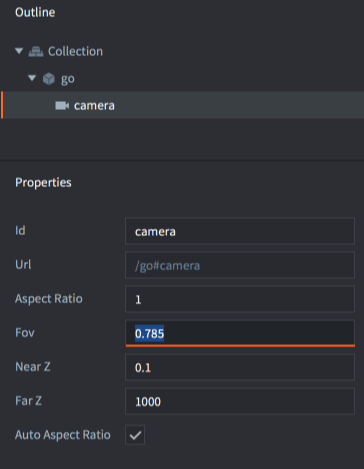
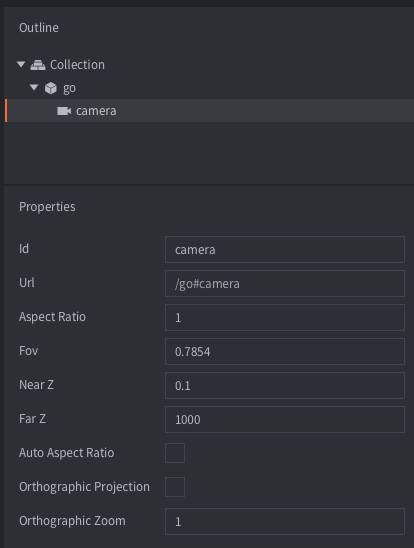
Updated camera and render documentation

diff --git a/docs/en/manuals/camera.md b/docs/en/manuals/camera.md
@@ -5,17 +5,28 @@ brief: This manual describes the functionality of the Defold camera component.
 
 # Cameras
 
-A camera in Defold is a component that changes the viewport and projection of the game world. The camera component defines a bare bones perspective or orthographic camera that provides a view and projection matrix to the render script. A perspective camera is typically used for 3D games while an orthographic camera is used for 2D games. If you need advanced features like chasing, zooming, shake etc you will need to implement it yourself (see section on [third-party camera solutions](https://www.defold.com/manuals/camera/#third-party-camera-solutions) below).
+A camera in Defold is a component that changes the viewport and projection of the game world. The camera component defines a bare bones perspective or orthographic camera that provides a view and projection matrix to the render script.
+
+A perspective camera is typically used for 3D games where view of the camera and the size and perspective of objects is based on a view frustum and the distance and view angle from the camera to the objects in the game.
+
+For 2D games, it is often desirable to render the scene with an orthographic projection. This means that the view of the camera is no longer dictated by a view frustum, but by a box. Orthographic projection is unrealistic in that it does not alter the size of objects based on their distance. An object 1000 units away will render at the same size as an object right in front of the camera.
+
+![projections](images/camera/projections.png)
+
+
+If you need advanced features like chasing or shake etc you will need to implement it yourself (see section on [third-party camera solutions](https://www.defold.com/manuals/camera/#third-party-camera-solutions) below).
+
+
 
 ## Creating a camera
 
 To create a camera, <kbd>right click</kbd> a game object and select <kbd>Add Component ▸ Camera</kbd>. You can alternatively create a component file in your project hierarchy and add the component file to the game object.
 
-![create camera component](images/camera/create.png){srcset="images/camera/create@2x.png 2x"}
+![create camera component](images/camera/create.png)
 
 The camera component has the following properties that defines the camera *frustum* (perspective camera only):
 
-![camera settings](images/camera/settings.png){srcset="images/camera/settings@2x.png 2x"}
+![camera settings](images/camera/settings.png)
 
 Id
 : The id of the component
@@ -35,15 +46,22 @@ Far Z
 Auto Aspect Ratio
 : (**Perspective camera only**) - Set this to let the camera automatically calculate the aspect ratio.
 
+Orthographic Projection
+: Set this to switch the camera to an orthographic projection (see below).
+
+Orthographic Zoom
+: (**Orthographic camera only**) - The zoom used for the orthographic projection (> 1 = zoom in, < 1 = zoom out).
+
+
 ## Using the camera
 
-To activate a camera and have it feed its view and projection matrices to the render script, you send the component an acquire_camera_focus message:
+To activate a camera and have it feed its view and projection matrices to the render script, you send the component an `acquire_camera_focus` message:
 
 ```lua
 msg.post("#camera", "acquire_camera_focus")
 ```
 
-Each frame, the camera component that currently has camera focus will send a `"set_view_projection"` message to the "@render" socket, i.e. it will arrive to your render script:
+Each frame, the camera component that currently has camera focus will send a `set_view_projection` message to the "@render" socket, i.e. it will arrive to your render script:
 
 ```lua
 -- builtins/render/default.render_script
@@ -57,6 +75,21 @@ end
 ```
 1. The message posted from the camera component includes a view matrix and a projection matrix.
 
+The camera component supplies the render script with either a perspective or orthographic projection matrix depending on the *Orthographic Projection* property of the camera.
+
+::: important
+For reasons of backwards compatibility the default render script ignores the projection provided by the camera and always uses an orthographic stretch projection.
+:::
+
+You can tell the render script to use the projection provided by the camera by sending a message to the render script:
+
+```lua
+msg.post("@render:", "use_camera_projection")
+```
+
+Learn more about the render script and the view and projection matrices in the [Render manual](/manuals/render/#default-view-projection).
+
+
 ### Panning the camera
 
 You pan/move the camera around the game world by moving the game object the camera component is attached to. The camera component will automatically send an updated view matrix based on the current x and y axis position of the camera.
@@ -65,10 +98,10 @@ You pan/move the camera around the game world by moving the game object the came
 
 You can zoom in and out when using a perspective camera by moving the game object the camera is attached to along the z-axis. The camera component will automatically send an updated view matrix based on the current z-position of the camera.
 
-You can only zoom in and out when using an orthographic camera if the projection type is set to `Fixed`, and in that case the zoom is changed by sending a message to the render script with the required zoom level:
+You can zoom in and out when using an orthographic camera by changing the *Orthographic Zoom* property of the camera:
 
-```Lua
-msg.post("@render:", "use_fixed_projection", { zoom = 2, near = -1, far = 1 })
+```lua
+go.set("#camera", "orthographic_zoom", 2)
 ```
 
 ### Following a game object
@@ -81,7 +114,7 @@ An alternative way is to update the position of the game object the camera compo
 
 ### Converting mouse to world coordinates
 
-When the camera has panned, zoomed or changed it's projection from the default orthographic Stretch projection the mouse coordinates provided in the on_input() lifecycle function will no longer match to the world coordinates of your game objects. You need to manually account for the change in view or projection. Converting from mouse/screen coordinates to world coordinates from the default render script is done like this:
+When the camera has panned, zoomed or changed it's projection from the default orthographic Stretch projection the mouse coordinates provided in the `on_input()` lifecycle function will no longer match to the world coordinates of your game objects. You need to manually account for the change in view or projection. Converting from mouse/screen coordinates to world coordinates from the default render script is done like this:
 
 ::: sidenote
 The [third-party camera solutions mentioned in this manual](/manuals/camera/#third-party-camera-solutions) provides functions for converting to and from screen coordinates.
@@ -102,37 +135,23 @@ local function screen_to_world(x, y, z)
 end
 ```
 
-## Projections
 
-The camera component supplies the render script with a perspective projection. This is well suited for 3D games. For 2D games, it is often desirable to render the scene with *orthographic projection*. This means that the view of the camera is no longer dictated by a frustum, but by a box. Orthographic projection is unrealistic in that it does not alter the size of objects based on their distance. An object 1000 units away will render at the same size as an object right in front of the camera.
+## Runtime manipulation
+You can manipulate cameras in runtime through a number of different messages and properties (refer to the [API docs for usage](/ref/camera/)).
 
-![projections](images/camera/projections.png){srcset="images/camera/projections@2x.png 2x"}
+A camera has a number of different properties that can be manipulated using `go.get()` and `go.set()`:
 
-### Orthographic projection (2D)
-To use an orthographic projection you ignore the projection matrix sent by the camera component and instead provide one yourself in the render script. The default render script supports three orthographic projections; `Stretch`, `Fixed` and `Fixed Fit`. You select which one to use by sending a message to the render script:
+`fov`
+: The camera field-of-view (`number`).
 
-```lua
-msg.post("@render:", "use_fixed_fit_projection", { near = -1, far = 1 })
-```
+`near_z`
+: The camera near Z-value (`number`).
 
-::: important
-Note that the near and far planes are also specified in the message. The near and far planes set on the camera properties are only used for the perspective projection.
-:::
+`far_z`
+: The camera far Z-value (`number`).
 
-::: important
-With an orthographic projection the view will be positioned such that the lower-left corner of the rendered portion of the screen will correspond to the position of the game object the camera component is attached to.
-:::
-
-Learn more about the render script and how to change which type of orthographic projection to use in the [Render manual](/manuals/render/#default-view-projection).
-
-### Perspective projection (3D)
-To use perspective projection you must use both the view and projection provided by the camera. You tell the render script to use the projection coming from the camera by sending a message to the render script:
-
-```lua
-msg.post("@render:", "use_camera_projection")
-```
-
-Learn more about the render script in the [Render manual](/manuals/render/#perspective-projection).
+`orthographic_zoom`
+: The orthographic camera zoom (`number`).
 
 
 ## Third-party camera solutions

diff --git a/docs/en/manuals/render.md b/docs/en/manuals/render.md
@@ -46,11 +46,7 @@ A detailed description on how materials work can be found in the [Material docum
 
 ## Default view projection
 
-The default render script is configured to use an orthographic projection suitable for 2D games. It provides three different orthographic projections: `Stretch` (default), `Fixed Fit` and `Fixed`.
-
-You can also use a perspective projection suitable for 3D games, as provided by a camera component.
-
-The camera component can be used for both orthographic and perspective projections to change the view matrix (basically which part of the game world that is rendered). Learn more about the camera component in the [Camera manual](/manuals/camera).
+The default render script is configured to use an orthographic projection suitable for 2D games. It provides three different orthographic projections: `Stretch` (default), `Fixed Fit` and `Fixed`. As an alternative to the orthographic projections in the default render script you also have the option to use the projection matrix provided by a camera component.
 
 ### Stretch projection
 
@@ -114,11 +110,9 @@ You enable the fixed projection by sending a message to the render script:
 msg.post("@render:", "use_fixed_projection", { near = -1, far = 1, zoom = 2 })
 ```
 
-### Perspective projection
+### Camera projection
 
-The perspective projection is suitable for 3D games where game objects are rendered with a perspective and where the size of objects vary depending on the distance from an imagined eye/camera position.
-
-You enable the perspective projection provided from a camera component by sending a message to the render script:
+You can also use the projection provided by a [Camera component](/manuals/camera). You enable the camera projection by sending a message to the render script:
 
 ```lua
 msg.post("@render:", "use_camera_projection")
